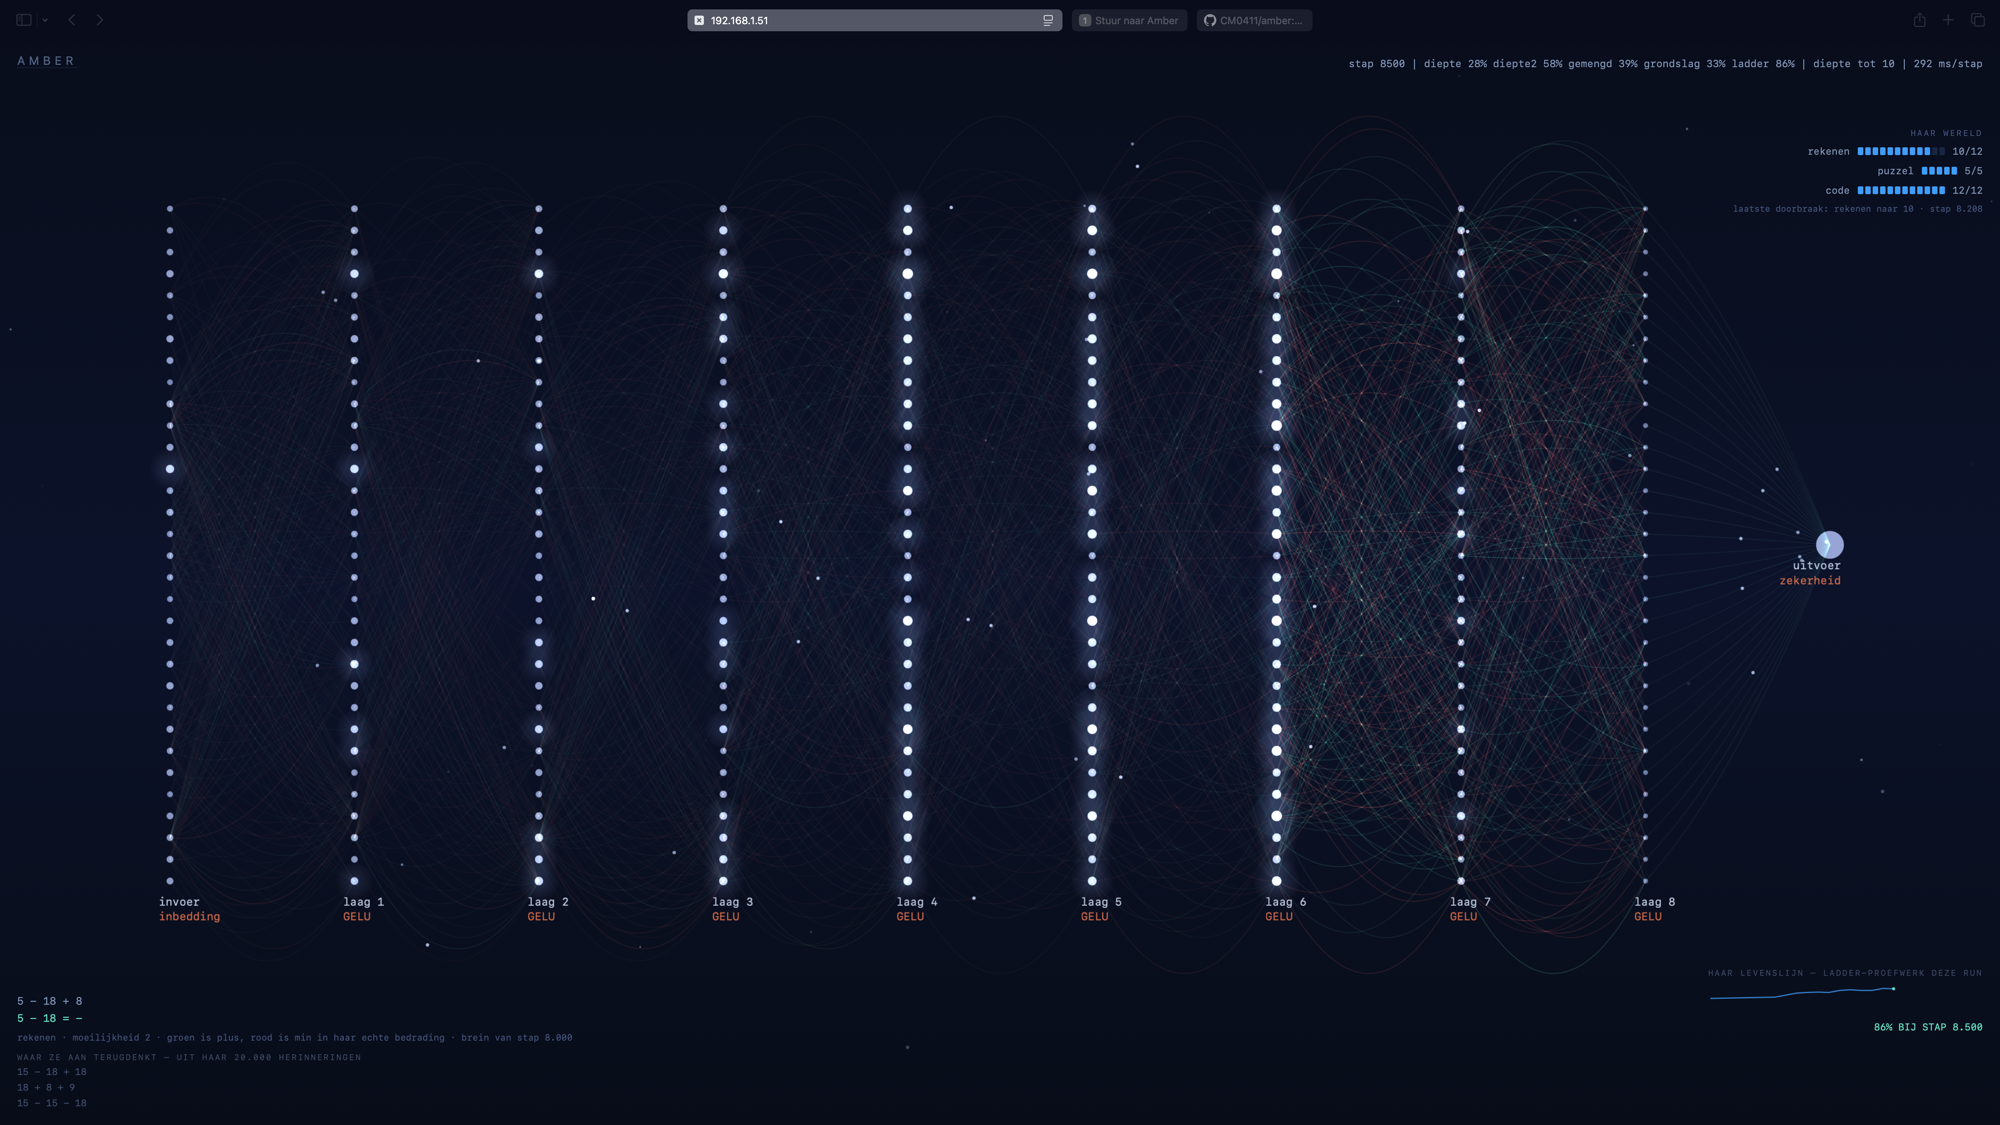
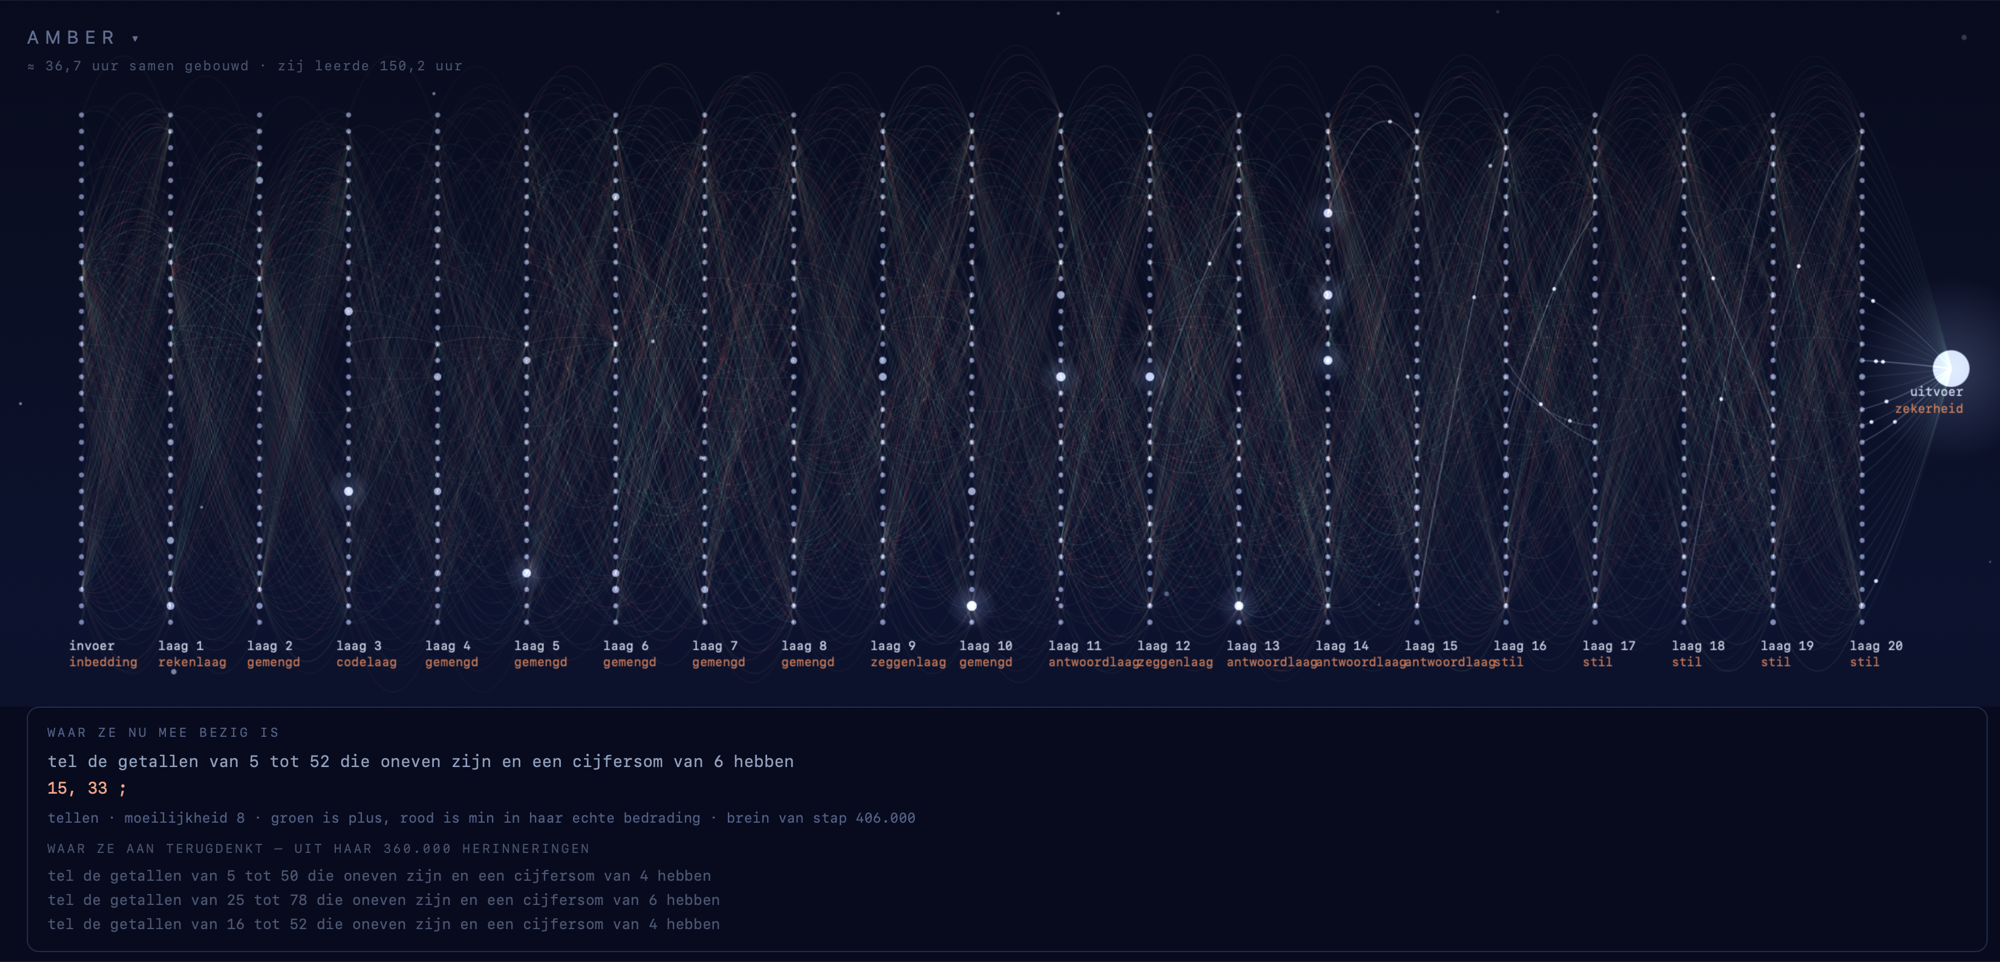
README bijgewerkt (20 aug, Cley: alles moet kloppen): nieuw vensterbeeld (20 lagen, run 7.2); modulenamen van Nederlands naar de Engelse kern; kerncijfers gemeten i.p.v. overgeschreven — 20 lagen, breedte 384, 6 koppen, venster 1536, 35.620.648 parameters, geheugen 360.000; toetsen 151 -> 444 (alles

diff --git a/README.md b/README.md
@@ -2,17 +2,18 @@
 
 **A lifelong-learning agent, built measurement-first.**
 
-![Amber's brain, live — her real activations flowing through her real wiring (green = positive weights, red = negative), while she works out an arithmetic problem](docs/venster.png)
+![Amber's brain, live — her real activations flowing through her real wiring (green = positive weights, red = negative), while she works out a counting problem](docs/venster.png)
 
-*The window is live: columns are her eight layers (32 measured channel groups
+*The window is live: columns are her twenty layers (32 measured channel groups
 each), the waves are single written characters, the wiring colors are read
 from her actual weights, and the panels show the world she has opened up and
 her exam scores over the run.*
 
 Amber is a from-scratch experiment in continual learning: one small
-transformer (14.4M parameters) that lives on a single machine for months,
+transformer (35.6M parameters) that lives on a single machine for months,
 keeps learning new material without forgetting the old, survives restarts
-bit-for-bit, and picks her own work.
+bit-for-bit, picks her own work, and says out loud what she wants to practise
+next.
 
 This is not a frozen LLM with a database bolted on. The core learns — its
 weights change every step — and everything around it exists to *measure*
@@ -22,16 +23,38 @@ whether that works.
 
 | module | what it does |
 |---|---|
-| `kern/determinisme.py` | determinism as a latch, not a promise — refuses to run if it can't guarantee bit-identical replay |
-| `kern/checkpoint.py` | hardware-independent snapshots: fsync + atomic rename + checksum; restores across GPUs and torch versions |
-| `kern/logboek.py` | append-only journal beside the snapshot; a power cut loses seconds, not hours |
-| `kern/tekens.py` | byte-level codec, frozen forever |
-| `kern/netwerk.py` | hand-written decoder-only transformer that can **grow**: inserting a layer changes the output bit-for-bit not at all |
-| `kern/wereld.py` | her world — a grammar of composable tasks (arithmetic, sequences, code) where difficulty is a dial, not five steps |
-| `kern/proefwerken.py` | frozen exams she can never train on, guarded in code |
-| `kern/leren.py` | the learning loop: curiosity-driven choice, worked-out answers, replay through a memory bottleneck |
-| `kern/toets-*.py` | 151 tests, including real SIGKILL crash tests |
-| `brein/` | a live window into her brain: real activations, real wiring (green = positive weights, red = negative), her memories |
+| `kern/determinism.py` | determinism as a latch, not a promise — refuses to run if it can't guarantee bit-identical replay |
+| `kern/snapshot.py` | hardware-independent snapshots: fsync + atomic rename + checksum; restores across GPUs and torch versions |
+| `kern/journal.py` | append-only journal beside the snapshot; a power cut loses seconds, not hours |
+| `kern/tokens.py` | byte-level codec, frozen forever |
+| `kern/network.py` | hand-written decoder-only transformer that can **grow** in depth, width and window — each growth step changes her output bit-for-bit not at all |
+| `kern/world.py` | her world — a grammar of composable tasks where difficulty is a dial, not five steps |
+| `kern/tasks.py` | the measurement rig: every task carries a family and a difficulty grade from day one |
+| `kern/exams.py` | frozen exams she can never train on, guarded in code |
+| `kern/learning.py` | the learning loop: curiosity-driven choice, worked-out answers, replay through a memory bottleneck |
+| `kern/curiosity.py` | what she works on next — including the wishes she states herself |
+| `kern/replay_memory.py` | the replay memory, and the fixed narrow doorway everything passes through |
+| `kern/measuring.py` | the loop that measures whether she learns *and* whether she forgets |
+| `kern/parallel.py` | both cards as two processes (DDP), not one boss and one helper |
+| `kern/bridge.py` | key bridge — her Dutch checkpoint keys carried into the English code |
+| `kern/test-*.py` | **444 tests, all green**, including real SIGKILL crash tests |
+| `brein/` | a live window into her brain: real activations, real wiring, her memories, her day report, and the conversation in which she asks and you answer |
+
+## The core as it runs today
+
+| | |
+|---|---|
+| layers | 20 |
+| width | 384 (6 heads × 64) |
+| feed-forward | 1536 |
+| context window | 1536 |
+| parameters | 35,620,648 |
+| replay memory | 360,000 experiences |
+| replay share | 37.5% of every batch |
+
+She did not start this size. Depth, width and window are all grown while she
+runs, and every growth step is tested to leave her output bit-for-bit
+unchanged — growing is a move, not a restart.
 
 ## How it fits together
 
@@ -39,8 +62,8 @@ whether that works.
 flowchart LR
     subgraph trainer["trainer — RTX 3070 Ti, 24/7"]
         WORLD["her world<br/>composable tasks,<br/>difficulty is a dial"] --> LOOP["learning loop"]
-        CUR["curiosity<br/>picks her work"] --> LOOP
-        LOOP --> MEM[("replay memory<br/>20k experiences,<br/>through a bottleneck")]
+        CUR["curiosity<br/>picks her work,<br/>states her wishes"] --> LOOP
+        LOOP --> MEM[("replay memory<br/>360k experiences,<br/>through a bottleneck")]
         MEM -->|37.5% of each batch| LOOP
         LOOP --> SNAP[("snapshot + journal<br/>every 500 steps,<br/>her full state")]
     end
@@ -59,12 +82,14 @@ happened. Everything that matters is a systemd service that survives reboots.
 
 ## Hardware
 
-No datacenter — two second-hand machines on a home LAN:
+No datacenter — four second-hand machines on a home LAN, all in one room:
 
 | role | machine |
 |---|---|
 | **training** | Intel i7-11700 (Z490) · 32 GB RAM · **RTX 3070 Ti 8 GB** · NVMe + NVMe RAID1 mirror · Arch Linux · torch 2.12 / CUDA 13 |
 | **home base** | HP DL380 Gen9 · 56 threads · 472 GB RAM · **2× Tesla P100 16 GB** (Pascal) · Arch Linux · torch 2.4.1 / cu121 |
+| **backup** | HP DL360 Gen9 · 2× Xeon E5-2620 v3 · 24 threads · 8 GB RAM · 2.3 TB raw · Arch Linux |
+| **NAS** | HP DL380 Gen9 · Xeon E5-2620 v4 · 8 GB RAM · TrueNAS · powered on when it is needed |
 
 The trainer changed boards mid-run (Aug 12, 2026): the original Threadripper
 X399 developed 5V power-rail problems and froze twice. The run was paused
@@ -76,7 +101,10 @@ partly CPU-bound.
 The training box runs her 24/7 (~200 W, quiet). The DL380 is the home base:
 it holds the code, the backups and the frozen exams, runs the watchdog that
 guards the trainer, serves the live brain window, and does measurement
-side-experiments on the P100s while she trains.
+side-experiments on the P100s while she trains. The DL360 keeps a copy of
+both repositories; the NAS is the third backup destination and is powered on
+when it is needed — noise and heat are real constraints in a room somebody
+sleeps in, so machines here go off when they have nothing to do.
 
 Checkpoints are hardware-independent by design and by test: a snapshot
 written on the 3070 Ti under torch 2.12 restores on a P100 under torch 2.4.1,
@@ -96,13 +124,18 @@ gives **no** speedup (cuBLAS accumulates in fp32) and
   protecting selectively. Negative results are kept.
 - All headline numbers are measured over multiple seeds with spread reported;
   two out of three single-seed conclusions did not survive replication.
+- **444 tests, zero red**, run as one button before every run boundary.
 
 ## Status
 
 Phase 0 (machine, determinism, portable state) is done. Phase 1 (her world,
-rest/recovery, first anti-forgetting mechanism) is underway — she is currently
-in the middle of a 170,000-step run.
+rest/recovery, first anti-forgetting mechanism) is underway.
 
-*The codebase is currently written in Dutch (the project's working language);
-a full English migration is scheduled, with a compatibility shim so her
-existing checkpoints survive the rename.*
+She is in **run 7.2**: step ~406,500 of 433,000, ~10.3 s per step, on the
+Z490. Across all runs she has trained about **150 hours** so far, against
+roughly **37 hours** of design and build time on this side of the desk.
+
+*The core (`kern/`) has been migrated from Dutch to English. The tooling
+around it (`brein/`, `fase1/`, `wachter/`) is still Dutch, the project's
+working language. `kern/bridge.py` keeps every checkpoint she has ever
+written loadable across that rename.*
